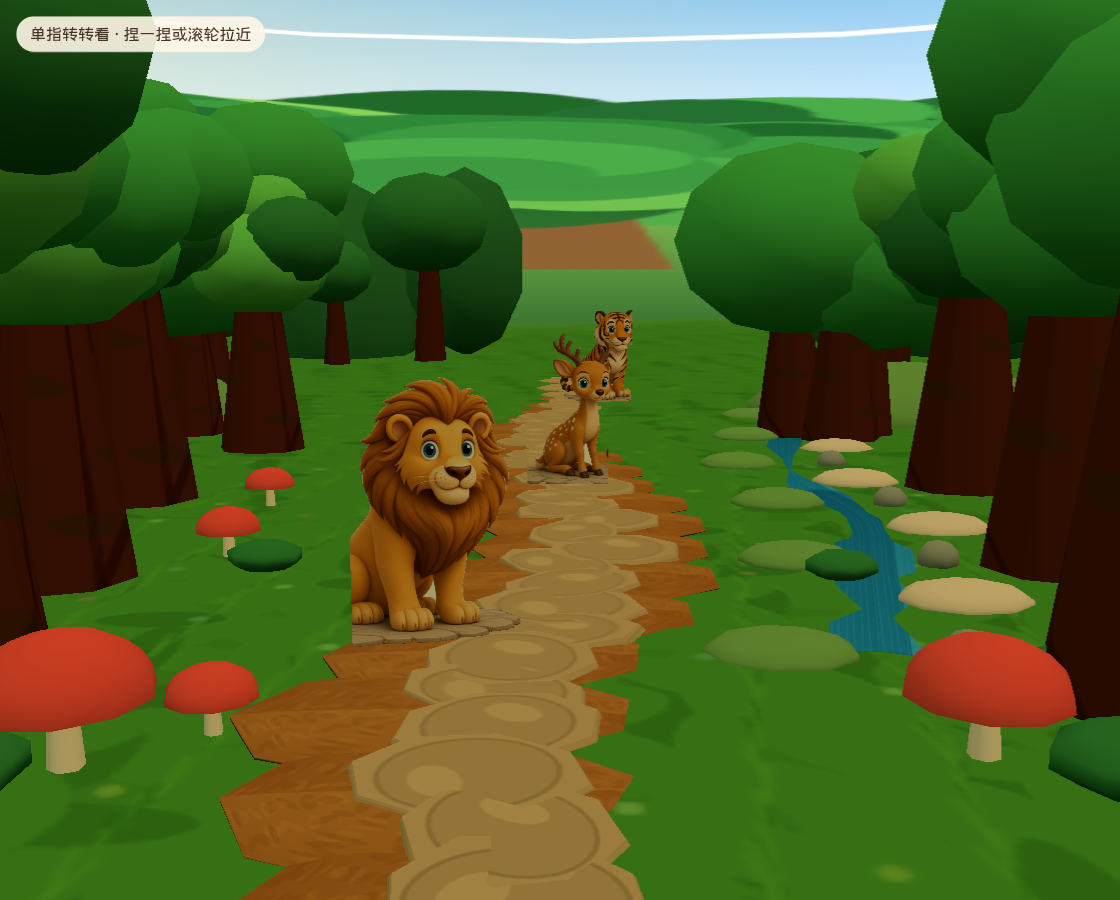
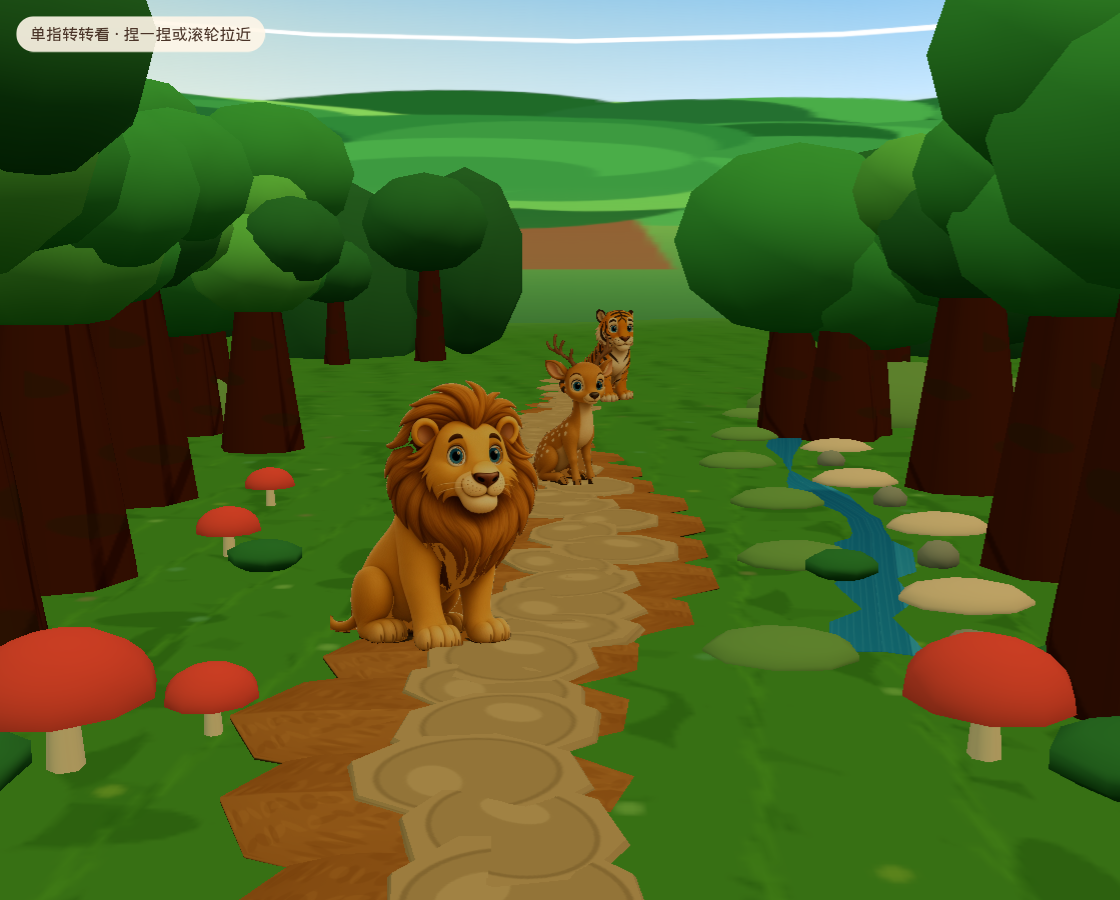
Recapture the steep path view with opaque sit and sleep cutouts.
Look-front now frames the sitting lion, sitting deer, and sleeping tiger from
above so legs, paws, and tail stay visible. Experience sit/sleep stills match.

Changed region(s): [[0.2812, 0.3422, 0.5625, 0.7156]]

diff --git a/web/src/world-exhibition/host-world.ts b/web/src/world-exhibition/host-world.ts
@@ -884,16 +884,16 @@ export class HostWorld {
     const lion = byKind('lion')
     const deer = byKind('deer')
     const tiger = byKind('tiger')
-    if (lion) place(lion, 0.68, 0, 'sit')
-    if (deer) place(deer, 0.44, -0.12, 'sit')
-    if (tiger) place(tiger, 0.26, 0.18, 'rest')
+    if (lion) place(lion, 0.58, 0, 'sit')
+    if (deer) place(deer, 0.4, -0.08, 'sit')
+    if (tiger) place(tiger, 0.24, 0.12, 'rest')
     for (const actor of this.actors.values()) {
       if (actor.marine) continue
       if (actor !== lion && actor !== deer && actor !== tiger) actor.group.visible = false
     }
-    const look = pointOnPath(0.4, 0)
-    this.orbit.target.set(look.x, 0.18, look.z)
-    this.camera.position.set(look.x + 0.42, 9.6, look.z + 3.85)
+    const look = pointOnPath(0.38, 0)
+    this.orbit.target.set(look.x, 0.22, look.z)
+    this.camera.position.set(look.x + 0.28, 6.4, look.z + 9.2)
     this.syncOrbitFromCamera()
     this.reorientLand()
     return true
